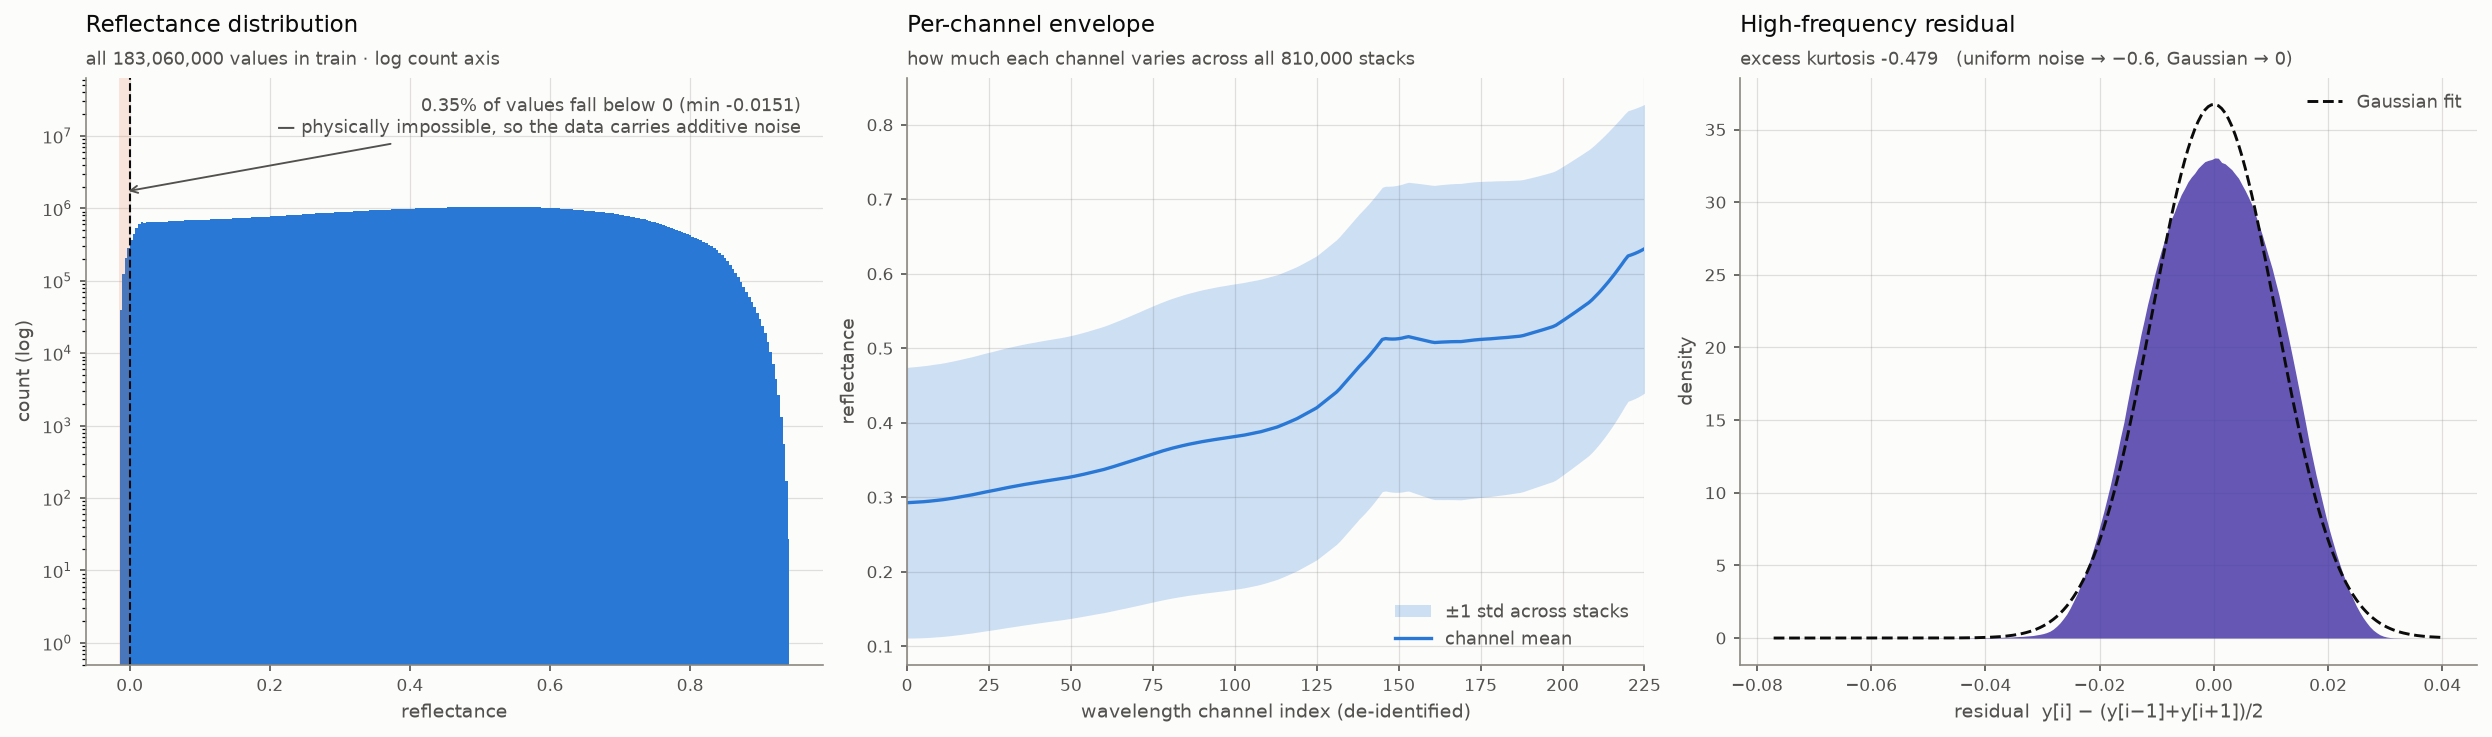
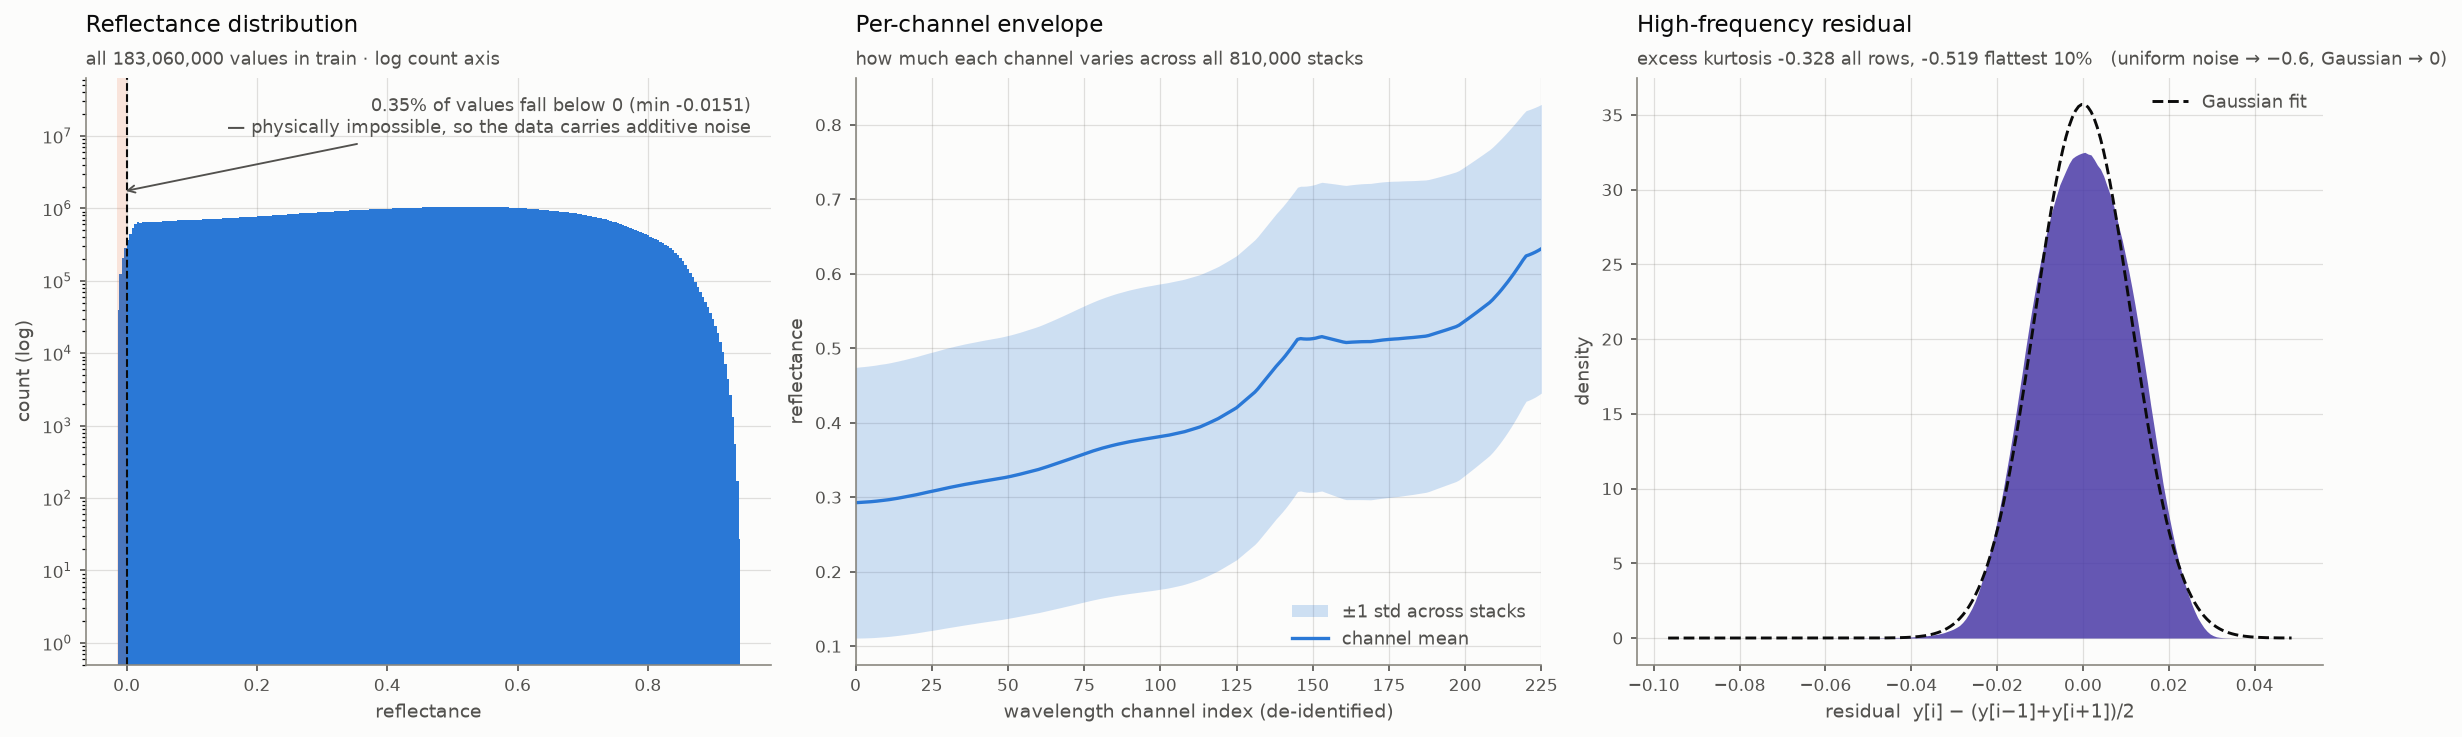
fix: 노이즈 추정의 표본 편향 수정 + "독립 추정 3개" 주장 정정
두 가지 오류를 고친다.

1) 표본 편향 — train 행은 (layer_1..layer_4) 사전식 정렬이라 x[:20_000] 은
   layer_1 = 10 nm 인 격자 구석만 본다(층별 고유값 [1, 23, 30, 30]). 평평한
   스펙트럼 쪽으로 치우쳐 sigma 가 0.008722 로 낮게 나왔다. 무작위 표본은
   0.009122. verify_data.py 와 eda.py 모두 시드 고정 무작위 표집으로 변경.

2) "독립 추정 3개 일치" 는 거짓 — 고주파 잔차 r = y[i]-(y[i-1]+y[i+1])/2 는
   2차 차분 d2 의 정확히 -1/2 배라 std(r)/sqrt(1.5) == std(d2)/sqrt(6) 이
   항등적으로 성립한다(수치 차이 0.00e+00 확인). 같은 추정량을 다른 표본에
   적용한 것일 뿐 독립 확인이 아니다. 독립적인 교차검증은 음수 하한 기반
   a/sqrt(3) = 0.008728 하나뿐이다.

결론은 오히려 강해졌다. 2차 차분 계열은 스펙트럼 곡률이 섞여 sigma 를 위로,
첨도를 0(가우시안) 쪽으로 미는 상한이다. 곡률이 적은 행만 골라 재면:

  표본                    sigma      초과 첨도
  무작위 100,000행        0.009120   -0.328
  그중 진폭 하위 10%      0.008841   -0.519
  (독립) 음수 하한        0.008728   —
  (이론) 균등분포         —          -0.60

서로 다른 두 양이 동시에 균등분포 예측으로 수렴한다. 가우시안은 어느 표본에서도
지지되지 않는다. sigma ~ 0.0087~0.0088, 균등분포라는 결론은 유지.

CLAUDE.md / README §2.2·2.3 / reports/eda_notes.md 의 수치와 서술 정정.
정렬된 격자에서 앞머리 자르기 금지를 CLAUDE.md 에 명시.

곁가지: 빈 sandbox.ipynb 때문에 ruff 가 실패해 *.ipynb 를 lint 대상에서 제외.

DoD: pytest 15 passed, ruff clean, verify_data.py 종료 코드 0.

diff --git a/scripts/eda.py b/scripts/eda.py
@@ -440,13 +440,32 @@ def figure_reflectance_distribution(x: np.ndarray) -> dict[str, float]:
     # (c) 고주파 잔차 — 노이즈가 균등인지 가우시안인지
     # r_i = y_i - (y_{i-1} + y_{i+1})/2. 참 스펙트럼이 국소 선형이면 잔차는 노이즈만 남고,
     # 분산은 1.5*sigma^2. 균등 노이즈면 초과 첨도 -0.6, 가우시안이면 0 이어야 한다.
-    sample = x[:100_000]
+    #
+    # 주의 — 이 잔차는 2차 차분의 -1/2 배다(r = -d2/2). 따라서 여기서 나오는 sigma 추정은
+    # verify_data.py 의 2차 차분 추정과 **같은 추정량**이지 독립적인 확인이 아니다.
+    # 독립적인 교차검증은 음수 하한 기반 a/sqrt(3) 쪽이다. 여기서 새로 얻는 정보는
+    # 크기(sigma)가 아니라 **분포 모양(첨도)** 이다.
+    #
+    # 표본은 무작위로 뽑는다. 행이 (layer_1..layer_4) 사전식 정렬이라 x[:N] 은
+    # layer_1 = 10 nm 구석만 보게 된다.
+    rng = np.random.default_rng(SEED)
+    sample = x[rng.choice(len(x), size=100_000, replace=False)]
     residual = sample[:, 1:-1] - 0.5 * (sample[:, :-2] + sample[:, 2:])
+    # 곡률이 가장 적은 행(진폭 하위 10%)에서 따로 재면 노이즈 고유의 값에 가장 가깝다.
+    # 곡률 오염은 sigma 를 위로, 첨도를 0(가우시안) 쪽으로 밀기 때문에, 두 값을 나란히
+    # 보고하면 참값이 어느 쪽에 있는지 방향까지 읽을 수 있다.
+    spread = sample.max(axis=1) - sample.min(axis=1)
+    flat_residual = residual[spread <= np.percentile(spread, 10)].astype(np.float64).ravel()
     residual = residual.astype(np.float64).ravel()
-    sigma_hat = float(residual.std() / np.sqrt(1.5))
-    excess_kurtosis = float(((residual - residual.mean()) ** 4).mean() / residual.var() ** 2 - 3.0)
-    metrics["sigma_from_residual"] = sigma_hat
+
+    def _excess_kurtosis(v: np.ndarray) -> float:
+        return float(((v - v.mean()) ** 4).mean() / v.var() ** 2 - 3.0)
+
+    metrics["sigma_from_residual"] = float(residual.std() / np.sqrt(1.5))
+    metrics["sigma_from_residual_flat"] = float(flat_residual.std() / np.sqrt(1.5))
+    excess_kurtosis = _excess_kurtosis(residual)
     metrics["residual_excess_kurtosis"] = excess_kurtosis
+    metrics["residual_excess_kurtosis_flat"] = _excess_kurtosis(flat_residual)
 
     counts_r, edges_r = np.histogram(residual, bins=200, density=True)
     centers_r = 0.5 * (edges_r[:-1] + edges_r[1:])
@@ -459,7 +478,9 @@ def figure_reflectance_distribution(x: np.ndarray) -> dict[str, float]:
     _title(
         ax_c,
         "High-frequency residual",
-        f"excess kurtosis {excess_kurtosis:+.3f}   (uniform noise → −0.6, Gaussian → 0)",
+        f"excess kurtosis {excess_kurtosis:+.3f} all rows, "
+        f"{metrics['residual_excess_kurtosis_flat']:+.3f} flattest 10%   "
+        "(uniform noise → −0.6, Gaussian → 0)",
     )
     ax_c.set_xlabel("residual  y[i] − (y[i−1]+y[i+1])/2", fontsize=9, color=INK_SECONDARY)
     ax_c.set_ylabel("density", fontsize=9, color=INK_SECONDARY)
@@ -551,8 +572,14 @@ def write_metrics(metrics: dict[str, float]) -> None:
         "",
         "| 항목 | 값 | 비고 |",
         "|---|---|---|",
-        f"| 잔차 기반 σ 추정 | {metrics['sigma_from_residual']:.6f} | Task 2 추정 0.0087과 대조 |",
-        f"| 초과 첨도 | {metrics['residual_excess_kurtosis']:+.3f} | 균등 −0.6 / 가우시안 0 |",
+        f"| σ — 전체 표본 (상한) | {metrics['sigma_from_residual']:.6f} "
+        "| 2차 차분과 **같은 추정량** (r = −d2/2), 독립 확인이 아니다 |",
+        f"| σ — 평평한 행 10% | {metrics['sigma_from_residual_flat']:.6f} "
+        "| 곡률 오염이 가장 적어 참값에 가깝다 |",
+        f"| 초과 첨도 — 전체 | {metrics['residual_excess_kurtosis']:+.3f} "
+        "| 균등 −0.6 / 가우시안 0 |",
+        f"| 초과 첨도 — 평평한 행 | {metrics['residual_excess_kurtosis_flat']:+.3f} "
+        "| 곡률이 첨도를 0쪽으로 밀므로 이쪽이 노이즈 고유값에 가깝다 |",
         "",
     ]
     METRICS_PATH.write_text("\n".join(lines), encoding="utf-8")
@@ -589,8 +616,12 @@ def main() -> int:
             f"   SNR = {metrics[f'layer_{layer}_snr']:5.2f}"
         )
     print(
-        f"\n잔차 기반 σ = {metrics['sigma_from_residual']:.6f}, "
-        f"초과 첨도 = {metrics['residual_excess_kurtosis']:+.3f}"
+        f"\n노이즈 σ: 전체 {metrics['sigma_from_residual']:.6f} (상한) / "
+        f"평평한 행 {metrics['sigma_from_residual_flat']:.6f}"
+    )
+    print(
+        f"초과 첨도: 전체 {metrics['residual_excess_kurtosis']:+.3f} / "
+        f"평평한 행 {metrics['residual_excess_kurtosis_flat']:+.3f}  (균등 −0.6 / 가우시안 0)"
     )
     print(
         f"fringe 주기 p5/중앙/p95 = {metrics['fringe_period_p5']:.1f} / "

diff --git a/scripts/verify_data.py b/scripts/verify_data.py
@@ -149,18 +149,31 @@ def _reference_stats(spectra: np.ndarray) -> None:
     print(f"  행별 스펙트럼 범위 중앙값: {np.median(spectra.max(1) - spectra.min(1)):.6f}")
 
     # 2차 차분 노이즈 추정: y=s+e 이고 s가 국소 선형이면 Var(y[i-1]-2y[i]+y[i+1]) ~ 6*sigma^2.
-    # fringe 곡률이 섞여 들어가므로 상한 성격의 추정이다.
-    sample = spectra[:20_000]
+    # 스펙트럼 곡률이 그대로 섞여 들어가므로 **상한**이다 — 무늬가 조밀할수록 부풀려진다.
+    #
+    # 표본을 무작위로 뽑아야 한다. 행이 (layer_1..layer_4) 사전식으로 정렬되어 있어
+    # spectra[:N] 같은 앞머리 자르기는 layer_1 = 10 nm 인 구석만 보게 된다(평평한 스펙트럼
+    # 쪽으로 치우쳐 추정치가 낮게 나온다).
+    rng = np.random.default_rng(0)
+    sample = spectra[rng.choice(len(spectra), size=20_000, replace=False)].astype(np.float64)
     second_diff = sample[:, :-2] - 2 * sample[:, 1:-1] + sample[:, 2:]
-    sigma_hat = float(second_diff.std() / np.sqrt(6.0))
+    sigma_upper = float(second_diff.std() / np.sqrt(6.0))
+
+    # 곡률 오염이 가장 적은 행(스펙트럼 진폭 하위 10%)만 보면 상한이 참값에 가까워진다.
+    spread = sample.max(axis=1) - sample.min(axis=1)
+    flat = sample[spread <= np.percentile(spread, 10)]
+    flat_diff = flat[:, :-2] - 2 * flat[:, 1:-1] + flat[:, 2:]
+    sigma_flat = float(flat_diff.std() / np.sqrt(6.0))
+
+    print(f"  노이즈 sigma 상한   = {sigma_upper:.6f}  (2차 차분, 무작위 20,000행)")
+    print(f"  노이즈 sigma (평평)  = {sigma_flat:.6f}  (같은 식, 진폭 하위 10% 행만)")
     negatives = spectra[spectra < 0.0]
-    print(f"  노이즈 sigma 추정(상한) = {sigma_hat:.6f}  (2차 차분, 앞 20,000행)")
     if negatives.size:
         print(
             f"  음수 반사율 하한 = {negatives.min():.6f}  "
             f"→ 균등 노이즈 ±a 라면 sigma = a/sqrt(3) = {abs(negatives.min()) / np.sqrt(3):.6f}"
         )
-    print("  ↑ 두 추정이 맞으면 노이즈는 대략 균등분포. 자세한 해석은 Task 3 EDA에서.")
+    print("  ↑ 앞 둘은 같은 추정식(상한), 마지막이 독립 추정. 해석은 Task 3 EDA에서.")
 
 
 def verify_test_and_submission(log: CheckLog) -> None:

diff --git a/CLAUDE.md b/CLAUDE.md
@@ -54,9 +54,13 @@ T = 4 * n0 * Re(n_s) / |n0*B + C|^2        # 무흡수 층 가정 시 R + T = 1
   - train 범위 [-0.015117, 0.943648], test [-0.014998, 0.940716]. `R > 1`은 0건.
   - 음의 반사율이 train 값의 0.35%, **행의 46.9%**에 등장. 물리적으로 불가능하므로
     참 스펙트럼 위에 노이즈가 얹힌 것.
-  - 노이즈 크기 추정 두 가지가 일치 → **σ ≈ 0.0087**:
-    2차 차분 추정 0.008722, 균등분포 ±0.0151 가정 시 a/√3 = 0.008728.
+  - 노이즈 크기 → **σ ≈ 0.0087~0.0088**. 서로 독립인 추정 **두 가지**가 일치한다:
+    (1) 2차 차분 `Var(y[i-1]-2y[i]+y[i+1]) ≈ 6σ²` — 곡률이 섞여 **상한**이라
+    무작위 표본 0.009122, 곡률이 적은 평평한 행만 보면 0.008838으로 내려간다.
+    (2) 음수 하한을 균등 노이즈 ±a로 본 a/√3 = **0.008728** (독립).
     음수값이 -0.0151에서 잘리고 1퍼센타일이 -0.0135인 것도 가우시안보다 유계 노이즈에 부합.
+  - **주의**: 고주파 잔차 `y[i]-(y[i-1]+y[i+1])/2` 추정은 2차 차분의 -1/2배라
+    **같은 추정량**이다(독립 확인이 아니다). 거기서 얻는 새 정보는 첨도(분포 모양)뿐.
   - 스크립트는 이제 확인된 사실(`R ≤ 1`, `R ≥ -0.02`)을 지킨다.
 - 평가지표: MAE. 제출 파일은 `sample_submission.csv` 형식.
 
@@ -64,9 +68,21 @@ T = 4 * n0 * Re(n_s) / |n0*B + C|^2        # 무흡수 층 가정 시 R + T = 1
 
 해석은 `reports/eda_notes.md`, 표는 `reports/eda_metrics.md`. 설계 결정에 쓰이는 값만 여기 둔다.
 
-- **노이즈 σ ≈ 0.0088** (독립 추정 3개 일치: 0.008722 / 0.008728 / 0.008867).
-  초과 첨도 −0.479 → **균등분포에 가깝다**(균등 −0.6, 가우시안 0).
+- **노이즈 σ ≈ 0.0087~0.0088, 균등분포에 가깝다.** 2차 차분 계열 추정은 스펙트럼 곡률이
+  섞여 σ를 위로, 첨도를 0(가우시안) 쪽으로 민다. 곡률이 적은 행만 골라 재면 둘 다
+  균등분포 예측으로 수렴한다 — 이 방향성이 근거다:
+
+  | 표본 | σ | 초과 첨도 |
+  |---|---|---|
+  | 무작위 100,000행 (상한) | 0.009120 | −0.328 |
+  | 그중 진폭 하위 10% | **0.008841** | **−0.519** |
+  | *(독립)* 음수 하한 a/√3 | **0.008728** | — |
+  | *(이론)* 균등분포 | — | **−0.60** |
+
   → 강건성 실험의 주입 노이즈는 **균등 ±0.015를 기본**으로 한다. 가우시안은 별개 질문으로 병기.
+- **표본 추출 주의**: train 행은 (layer_1..layer_4) **사전식 정렬**이다. `x[:N]` 앞머리
+  자르기는 layer_1 = 10 nm 구석만 보게 되어 표본이 아니다(σ가 0.00872로 낮게 나왔다).
+  통계를 낼 때는 반드시 시드 고정 무작위 표집을 쓸 것.
 - **층별 민감도** (한 층만 +10 nm, RMS ΔR / SNR): layer_1 0.1105/12.7, layer_2 0.0896/**10.3**,
   layer_3 0.1329/**15.3**, layer_4 0.1025/11.8.
   → 최소 SNR 10.3. **원리적 사각지대 없음.** 층별 MAE 격차는 관측 한계가 아니라 모델 문제로 해석한다.

diff --git a/README.md b/README.md
@@ -72,7 +72,9 @@ inductive bias로 결합한 딥러닝으로 푼다.
 음의 반사율은 물리적으로 불가능하므로, 참 스펙트럼 위에 **가산 노이즈**가 얹혀 있다는 뜻이다.
 크기 추정 두 가지가 독립적으로 일치한다.
 
-- 2차 차분 추정 — 신호가 국소 선형이면 `Var(y[i-1] − 2y[i] + y[i+1]) ≈ 6σ²` → **σ ≈ 0.008722**
+- 2차 차분 추정 — 신호가 국소 선형이면 `Var(y[i-1] − 2y[i] + y[i+1]) ≈ 6σ²`.
+  스펙트럼 곡률이 그대로 섞이므로 **상한**이다 → 무작위 표본 **0.009122**,
+  곡률이 적은(진폭 하위 10%) 행만 보면 **0.008838**
 - 음수값이 −0.0151에서 잘리는 것을 유계(균등) 노이즈 ±a로 보면 `σ = a/√3` → **σ ≈ 0.008728**
 
 음수값의 1퍼센타일이 −0.0135로 하한에 바짝 붙어 있는 점도 가우시안 꼬리보다 유계 노이즈에 부합한다.
@@ -97,7 +99,7 @@ inductive bias로 결합한 딥러닝으로 푼다.
 | 층별 민감도 (+10 nm) | SNR 10.3(layer_2) ~ 15.3(layer_3) | 최소 10.3 → **원리적 사각지대 없음.** 층별 MAE 격차는 모델 문제로 해석 |
 | fringe 주기 분포 | p5 28 / 중앙 57 / p95 **226** 채널 | 1D CNN 수용영역이 **대역 전체**에 도달해야 함 → 다중 스케일의 정량 요건 |
 | 채널별 정보량 | 대역 오른쪽 끝이 왼쪽의 **약 3배** | 채널 자르기 주의, 물리 손실 채널 가중은 ablation 후보 |
-| 노이즈 성격 | 초과 첨도 −0.479 (균등 −0.6 / 가우시안 0) | 강건성 실험 노이즈 모델을 균등분포로 |
+| 노이즈 성격 | 초과 첨도 −0.328 (전체) → **−0.519** (곡률 적은 행) / 균등 −0.6, 가우시안 0 | 강건성 실험 노이즈 모델을 균등분포로 |
 
 정량 법칙에 대한 유보: "무늬 개수 ∝ 두께"를 R²로 못박으려 지표 3종(FFT argmax /
 파워 무게중심 / 극값 개수)을 시도했으나 신뢰할 수준이 나오지 않았다. 파장축이
